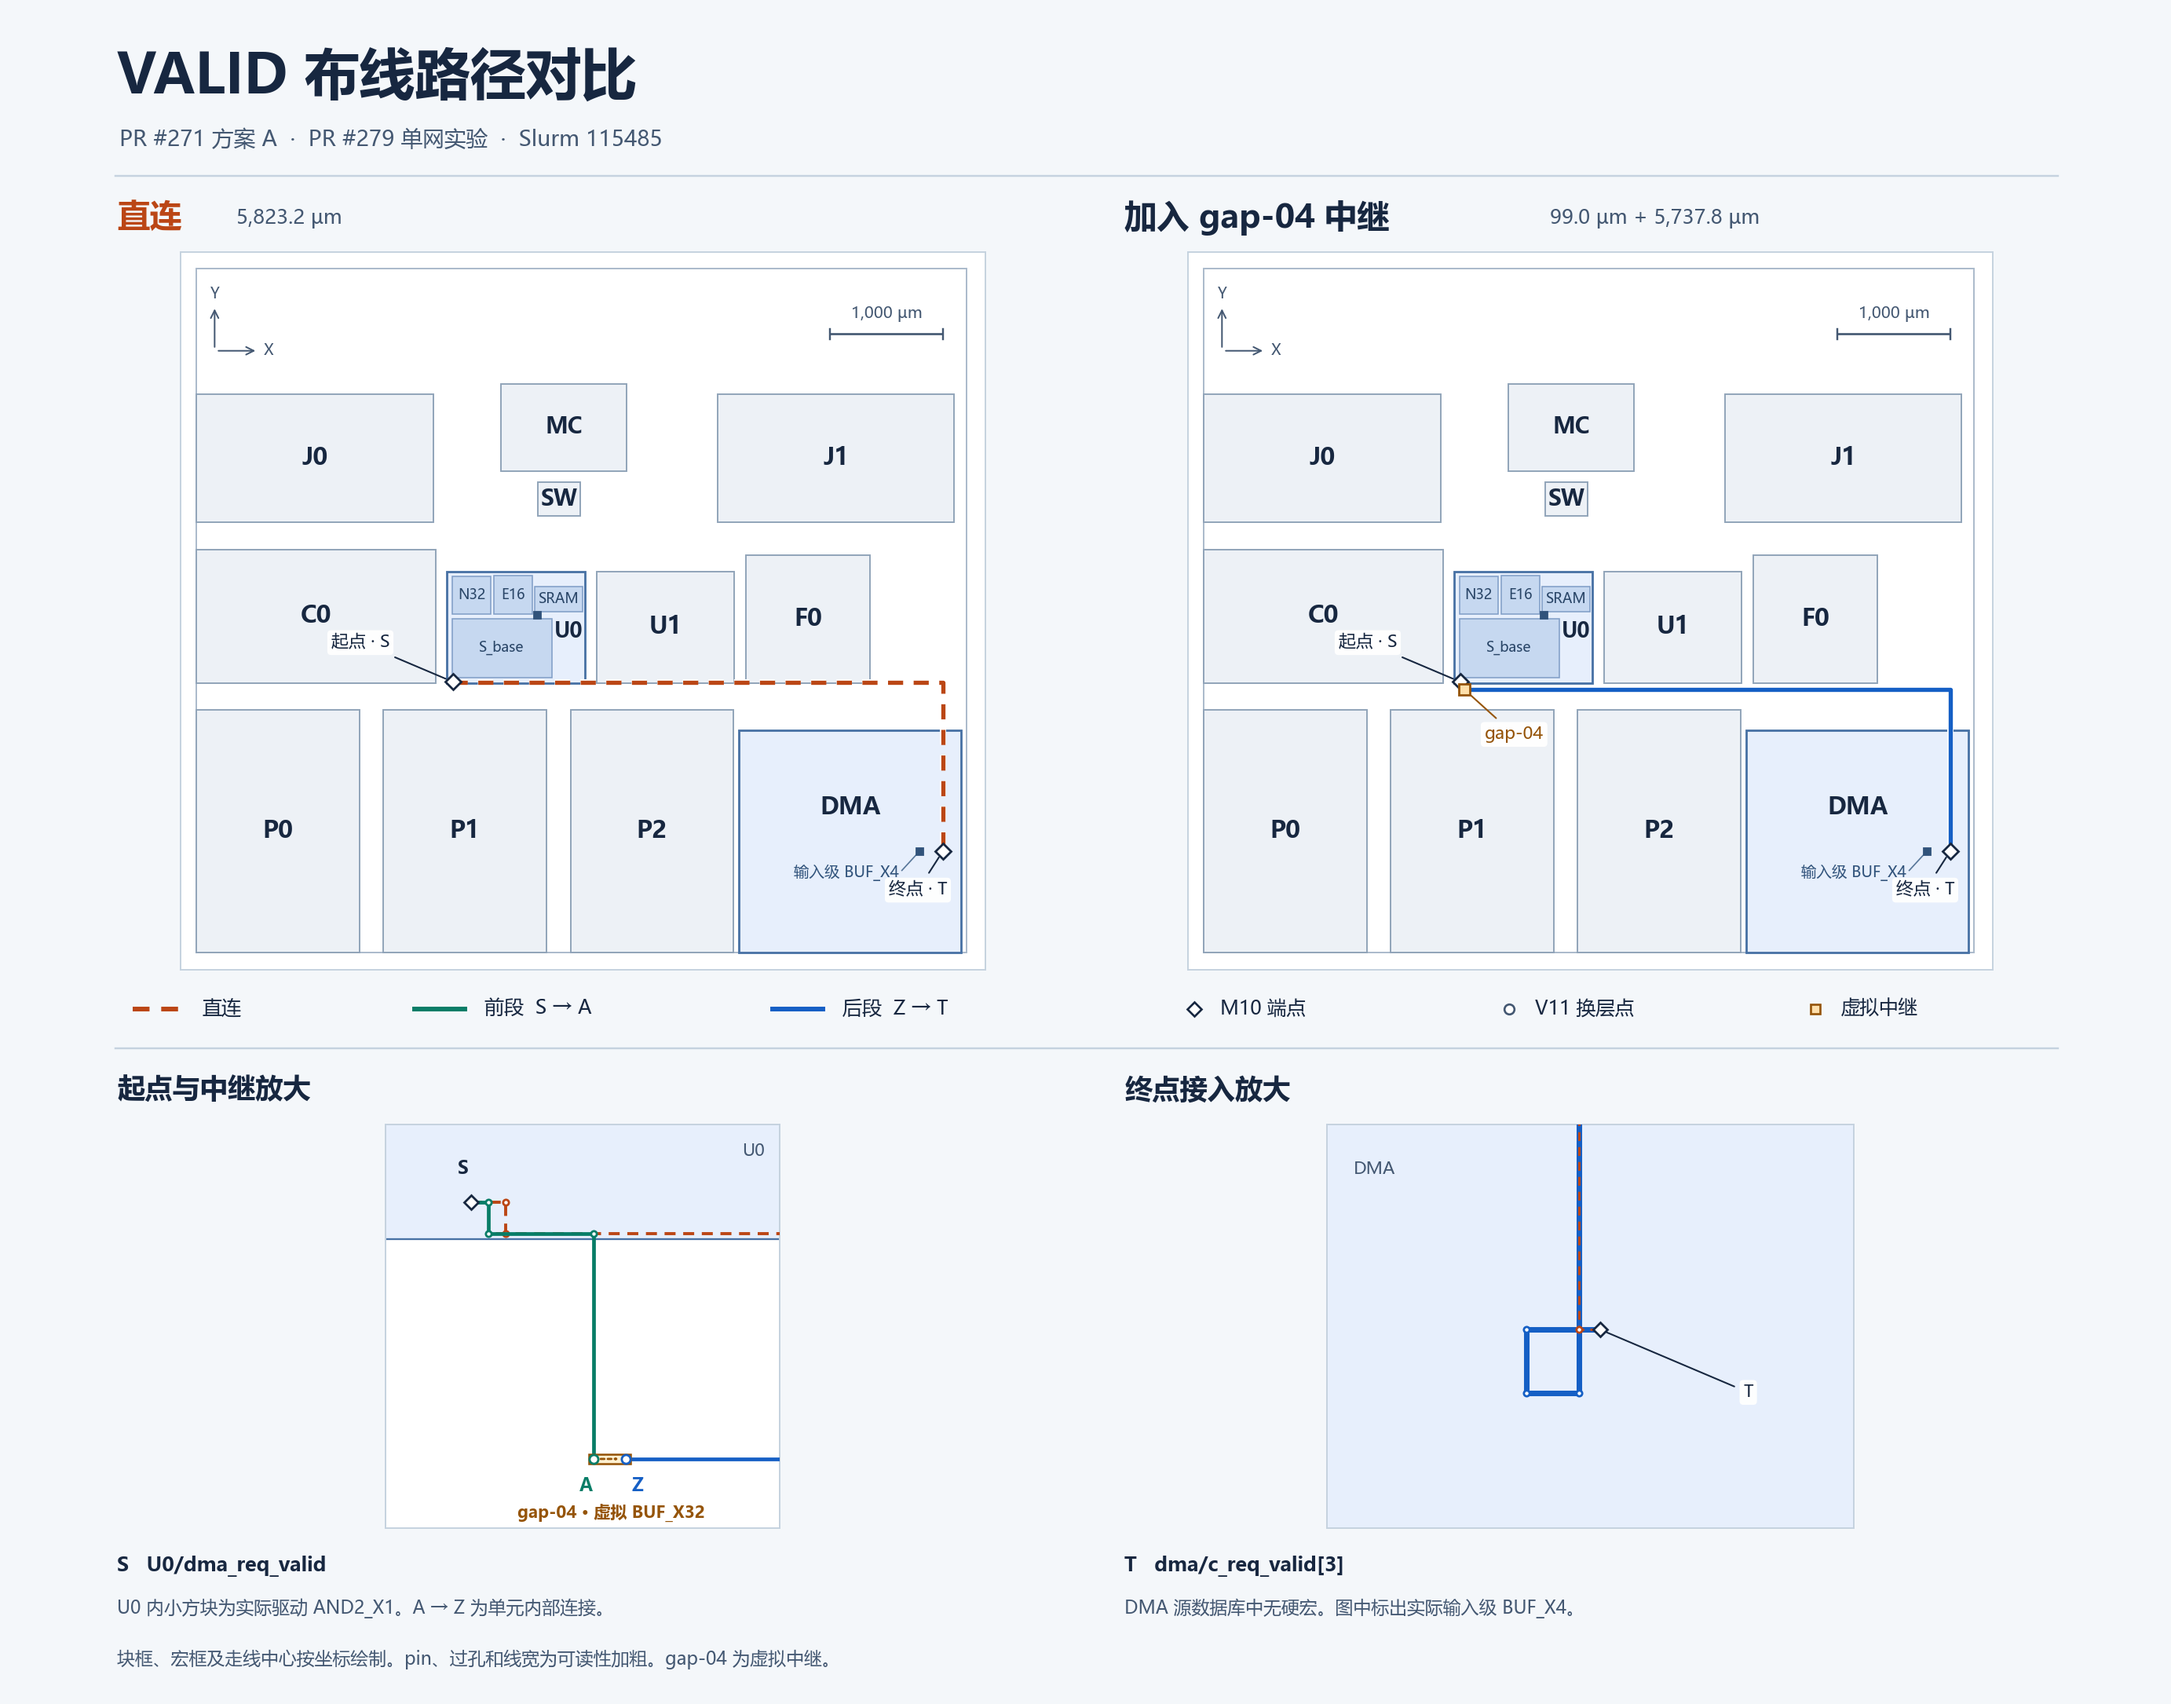
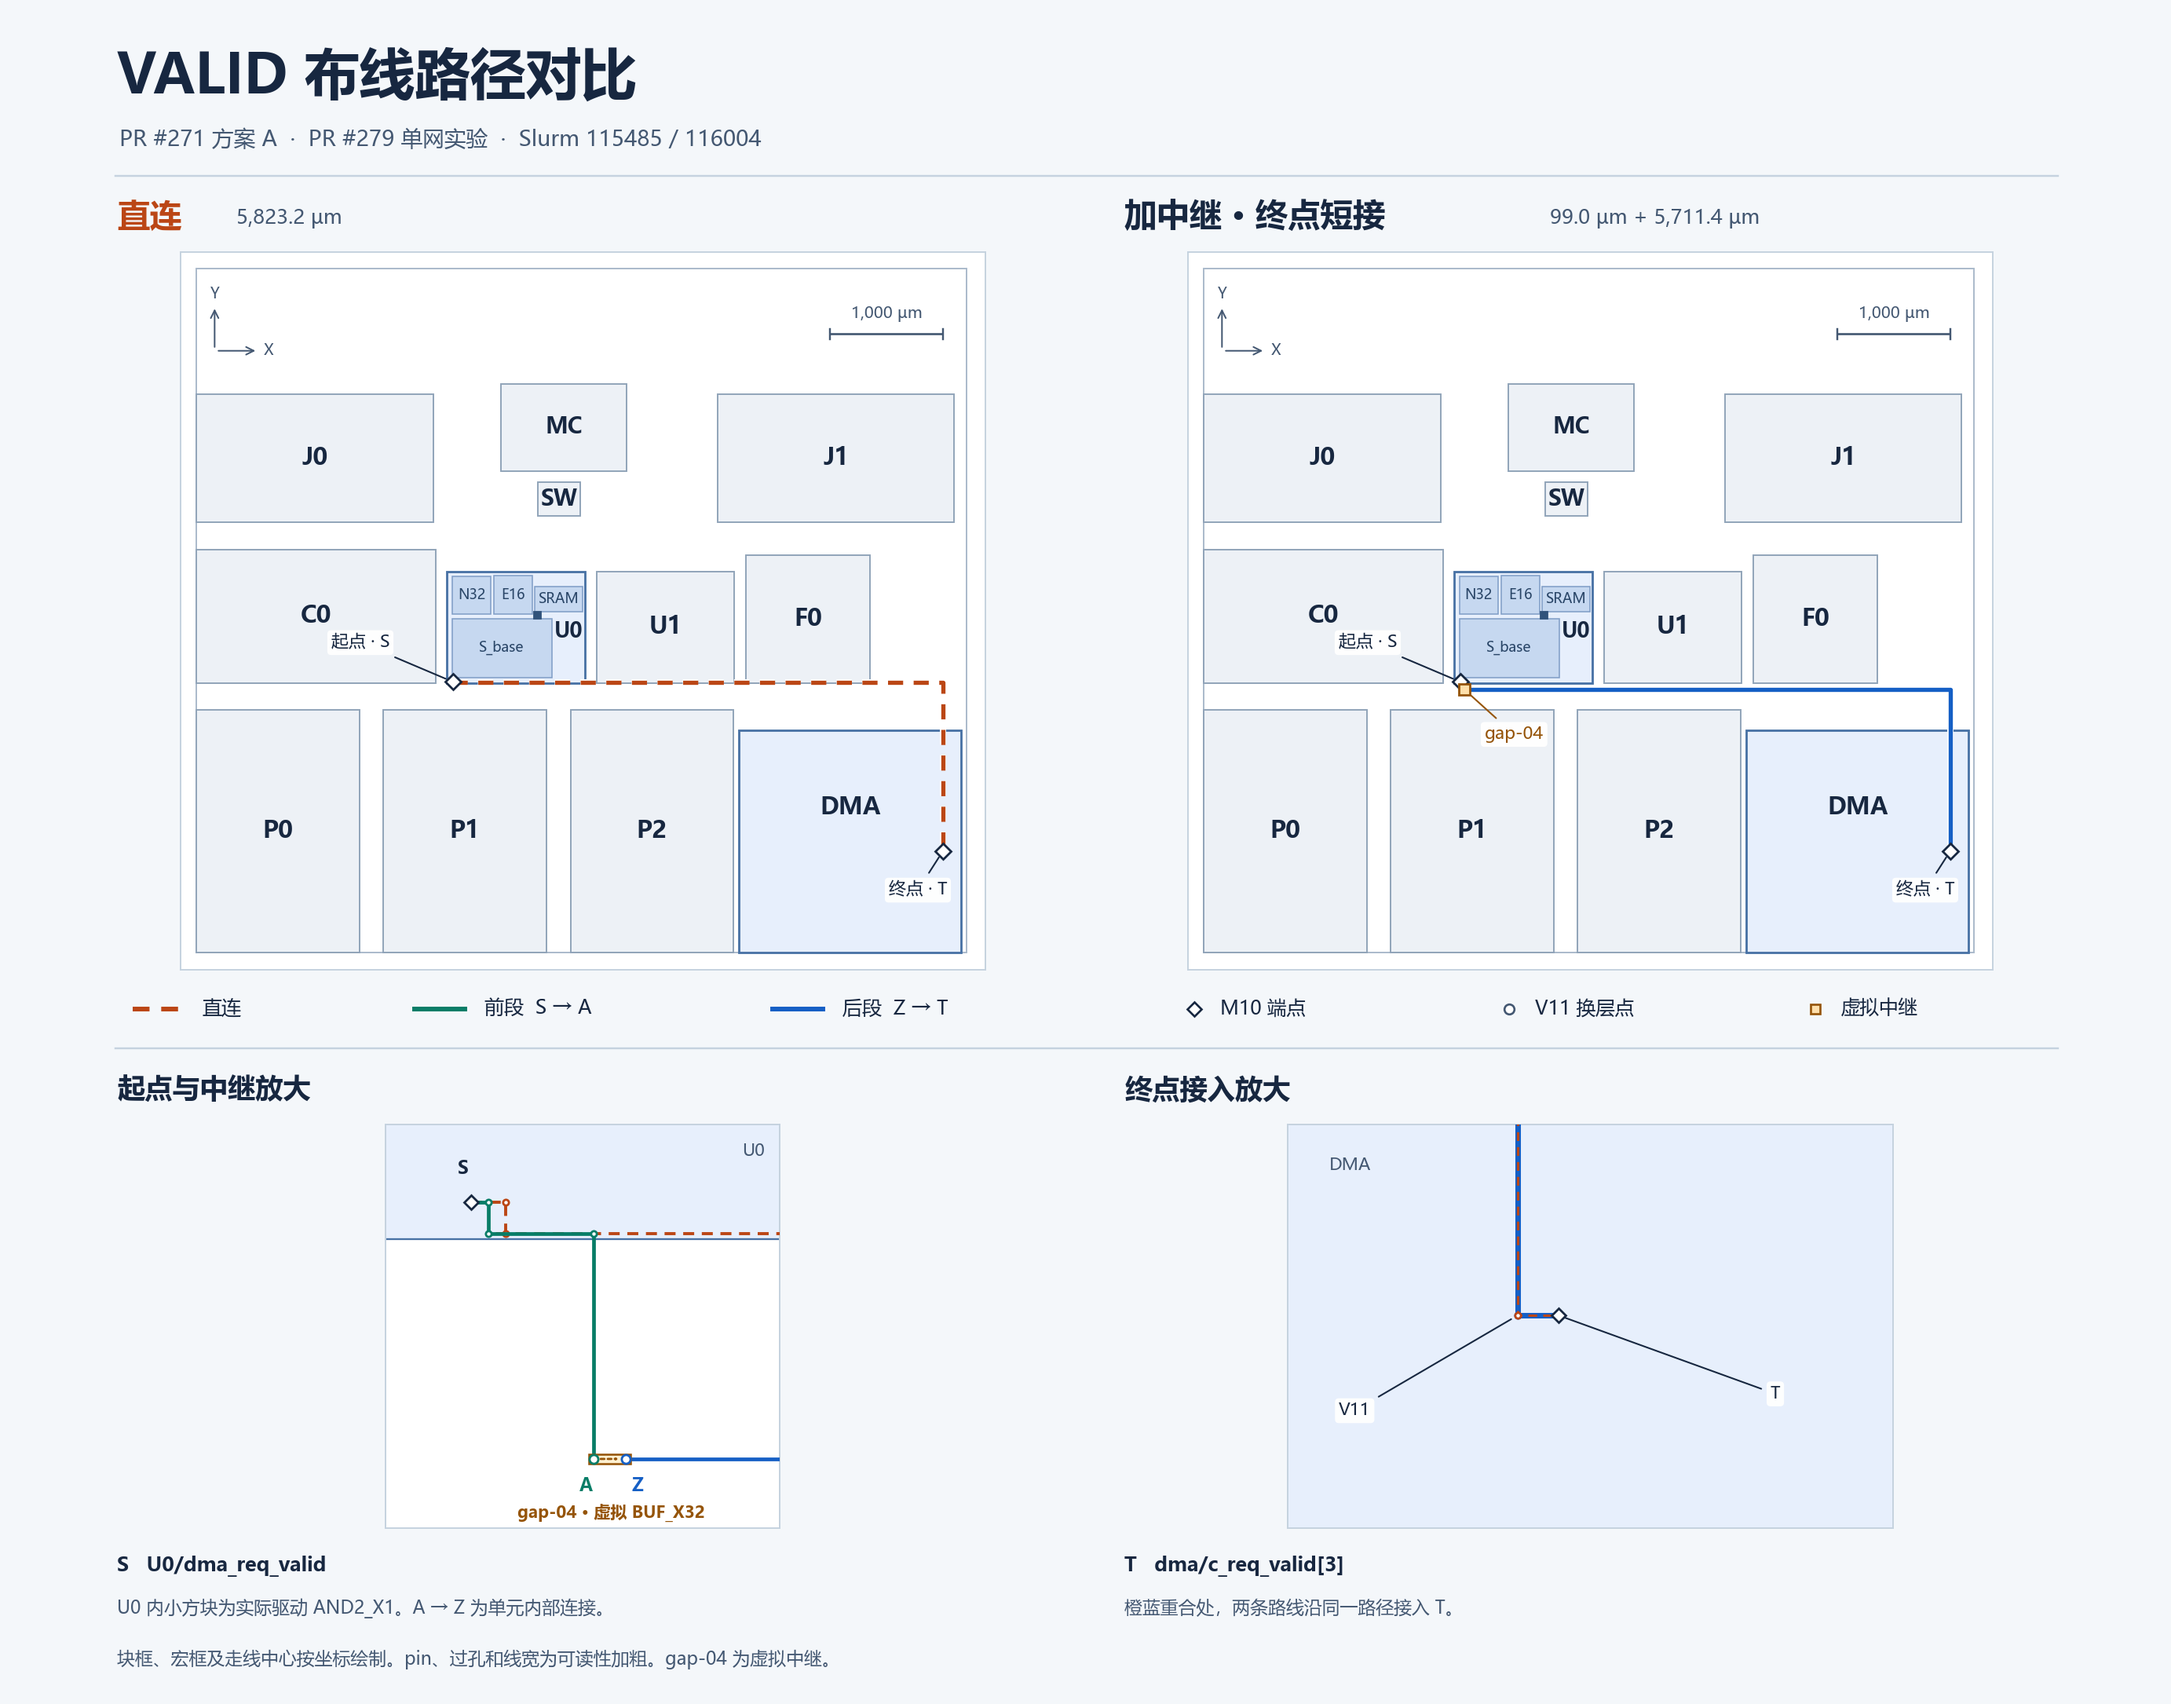
Verify shorter VALID sink access and update the route figure

diff --git a/work/huangpingyang04-lgtm/228/pr271-single-valid/README.md b/work/huangpingyang04-lgtm/228/pr271-single-valid/README.md
@@ -6,26 +6,29 @@
 
 ![PR #271 方案 A 的 VALID 直连与加中继路径，含起点、中继和终点放大图](pr271-valid-routing.png)
 
-图中走线取自 Slurm 作业 **115485** 的布线输出，按 #271 方案 A 的坐标绘制。左图为直连，右图经虚拟中继 `gap-04`（`BUF_X32`）。下方放大起点与中继 A/Z 接点，以及两条路径的终点接入。
+图按 #271 方案 A 的坐标绘制。左图为作业 **115485** 的直连，右图为作业 **116004** 的中继路径，沿用虚拟 `gap-04`（`BUF_X32`）。终点放大图中，两条路线在同一位置从 M12 经 V11 换到 M11，横走 2.4 µm 后接入 T（`dma/c_req_valid[3]`）。
 
-| | 直连 | 用 gap-04 的虚拟 BUF_X32 |
-| --- | ---: | ---: |
-| M11/M12 实际路线长度 | 5823.2 µm | 99.0 + 5737.8 µm |
-| 原驱动电容 | 1369.226 fF | 51.954 fF |
-| 原驱动转换时间 | 3000.075 ps | 117.688 ps |
-| 从时钟启动到 DMA 接点 | 3460.007 ps | 423.255 ps |
-| 相对 500 ps 接口预算的裕量 | −2960.007 ps | +76.744 ps |
+## 终点短接复跑
 
-直连晚 **2960.007 ps**。接入中继后，相对直连提前 **3036.752 ps**，在 500 ps 接口预算内余 **76.744 ps**。
+作业 **116004** 保留 #271 方案 A 的摆位、端点、虚拟中继和前段路线，只修改加中继方案在 DMA 终点附近的接入。沿用作业 115485 的 RC 与 STA 模型，复现了直连和原中继路径的 STA 日志。三种走线均通过本实验的独立几何检查，两种中继走线均无电容和转换时间违规。
 
-| 传播区间 | 长度 (µm) | 延迟 (ps) |
-| --- | ---: | ---: |
-| 直连 `U0/dma_req_valid → dma/c_req_valid[3]` | 5823.2 | 90.581 |
-| 前段 `U0/dma_req_valid → gap-04/A` | 99.0 | 0.114 |
-| 中继单元 `gap-04/A → gap-04/Z` | — | 92.049 |
-| 后段 `gap-04/Z → dma/c_req_valid[3]` | 5737.8 | 81.092 |
+| 指标 | 直连 | 加中继，原走线 | 加中继，终点短接 |
+| --- | ---: | ---: | ---: |
+| M11/M12 路线长度 (µm) | 5823.2 | 5836.8 | 5810.4 |
+| V11 数量 | 4 | 8 | 6 |
+| 从时钟启动到 T 的到达时间 (ps) | 3460.007 | 423.255 | 422.069 |
+| 相对 500 ps 接口预算的裕量 (ps) | −2960.007 | +76.744 | +77.931 |
 
-原驱动 `AND2_X1` 输出电容限值为 60.577 fF。选中 `gap-04` 后，电容和转换时间违规均消除。端到端延迟的主要改善来自原驱动负载下降。
+终点短接减少 **26.4 µm** 和 **2 个 V11**。相比原中继路线，信号提前 **1.186 ps**，裕量增加 **1.186 ps**（差值按未舍入数据计算）。相比直连，信号提前 **3037.938 ps**。
+
+| 传播区间 | 原走线长度 (µm) | 短接后长度 (µm) | 原走线延迟 (ps) | 短接后延迟 (ps) |
+| --- | ---: | ---: | ---: | ---: |
+| 直连 `U0/dma_req_valid → dma/c_req_valid[3]` | 5823.2 | — | 90.581 | — |
+| 前段 `U0/dma_req_valid → gap-04/A` | 99.0 | 99.0 | 0.114 | 0.114 |
+| 中继单元 `gap-04/A → gap-04/Z` | — | — | 92.049 | 91.595 |
+| 后段 `gap-04/Z → dma/c_req_valid[3]` | 5737.8 | 5711.4 | 81.092 | 80.360 |
+
+直连时 `AND2_X1` 的输出负载为 1369.226 fF，超出 60.577 fF 限值，转换时间为 3000.075 ps。原中继方案将源端负载降到 51.954 fF、转换时间降到 117.688 ps，相比直连提前 3036.752 ps。终点短接进一步减少后段负载，降低了后段走线和中继单元的延迟。
 
 ## 输入与模型
 
@@ -36,6 +39,8 @@
 ## 工件
 
 作业 115485 在 14 秒内完成，退出码 `0:0`。服务器实验目录为 `/public/home/yuzelu/PingyangHuang/hpy-pr271-one-valid-qLgsHk`，成功试验的路线、SPEF 和 STA 日志在 `fast/`。
+
+作业 116004 复跑用时 9 秒，退出码 `0:0`。服务器目录为 `/public/home/yuzelu/PingyangHuang/hpy-valid-shortcut-Wnlh2c`，其中 `buffered-shortcut.json` 为短接坐标，`buffered_shortcut/sta.log` 为新路线的 OpenSTA 输出。[复跑对比数据](shortcut-sta.json) 包含未舍入时序、几何检查和文件 SHA-256。
 
 - [机器可读结果](summary.json)、[初筛顺序](candidate-order.json)、[直连违规反馈](feedback.json)。
 - [直连 OpenSTA 日志](direct/sta.log)、[中继 OpenSTA 日志](buffered/sta.log)、[输入 SHA-256](inputs.sha256) 和 [输出 SHA-256](outputs.sha256)。
